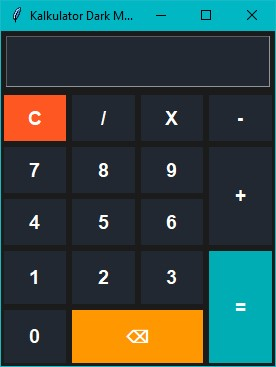
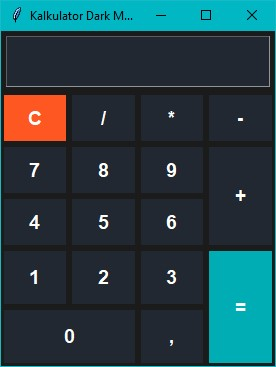
git init

Changed region(s): [[0.2319, 0.8392, 0.7536, 1.0], [0.087, 0.8992, 0.1449, 0.9591], [0.6087, 0.2997, 0.6377, 0.3597]]

diff --git a/app.py b/app.py
@@ -23,15 +23,33 @@ def format_input(event=None):
     entry.insert(0, new_text)
 
 def tekan(t):
+    text = entry.get()
+    
+    if t in "+-*/":
+        if not text:  
+            return
+        if text[-1] in "+-*/":  
+            entry.delete(len(text)-1, tk.END)
+            entry.insert(tk.END, t)
+            return
+    
+    if t == ",":  
+        if not text or not text[-1].isdigit():
+            entry.insert(tk.END, "0,")
+            return
+        
+        parts = re.split(r'[+\-*/]', text)
+        last_number = parts[-1]
+        
+        if "," in last_number or "," in last_number:
+            return
+    
     entry.insert(tk.END, t)
     format_input()
 
+
 def hapus_all():
     entry.delete(0, tk.END)
-
-def hapus_satu():
-    if entry.get():
-        entry.delete(len(entry.get())-1, tk.END)
 
 def hitung():
     try:
@@ -103,8 +121,8 @@ for c, n in enumerate(("1", "2", "3")):
 buat_tombol("=", 4, 3, h=5, warna="#00ADB5", cmd=hitung, rowspan=2)
 
 # Baris 5
-buat_tombol("0", 5, 0, cmd=lambda: tekan("0"))
-buat_tombol("⌫", 5, 1, w=2, warna="#FF9800", cmd=hapus_satu, columnspan=2)
+buat_tombol("0", 5, 0, cmd=lambda: tekan("0"), columnspan=2)
+buat_tombol(",", 5, 2, cmd=lambda: tekan(","))
 
 # ==============================
 #  RESPONSIVE GRID
